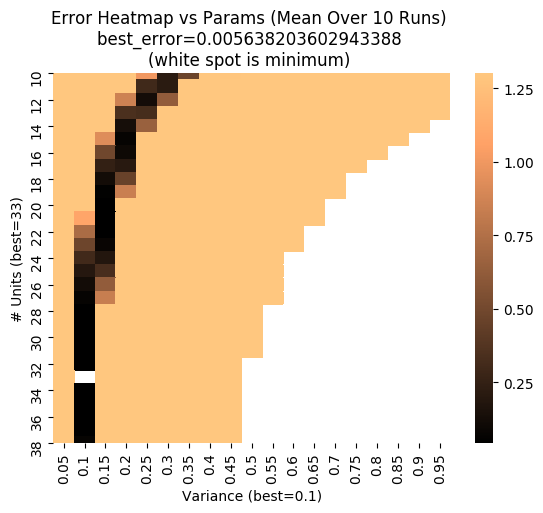
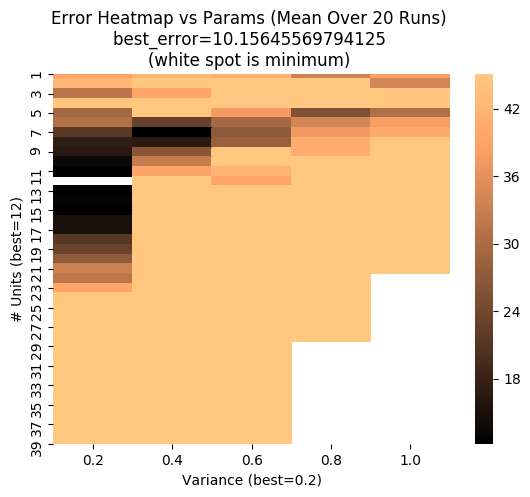
3.2 done

diff --git a/lab2/_3_2.py b/lab2/_3_2.py
@@ -6,23 +6,29 @@ from _3_1 import RBF_NET, X, Y_SIN, Y_SQUARE, X_VAL, Y_SIN_VAL, Y_SQUARE_VAL
 
 
 def getNoisy(input_):
-    return (input_ + 0.01 * np.random.randn(*(input_.shape)))
+    return input_ + np.sqrt(0.1) * np.random.randn(*(input_.shape))
 
 
 def findBestParams(
-    x, y, x_val, y_val, training_method, apply_noise=True, randomize_rbfs=False
+    x,
+    y,
+    x_val,
+    y_val,
+    training_method,
+    apply_noise=True,
+    randomize_rbfs=False,
+    max_epochs=100,
+    hidden_range=np.arange(1, 41),
+    var_range=np.round(np.arange(0.2, 1.2, 0.2), 2),
+    eta=1,
 ):
 
-    num_runs = 20
-    hidden_range = np.arange(10, 41)
-    var_range = np.round(np.arange(0.05, 1.0, 0.05), 2)
+    num_runs = 10
 
     errors = np.ndarray((num_runs, len(hidden_range), len(var_range)))
     num_epochs = np.ndarray((num_runs, len(hidden_range), len(var_range)))
 
     for run in range(num_runs):
-
-        print("Run", run)
 
         y, y_val = getNoisy(np.array([y, y_val])) if apply_noise else (y, y_val)
 
@@ -30,7 +36,7 @@ def findBestParams(
             for j, rbfs_variance in enumerate(var_range):
 
                 cont = False
-                
+
                 while not cont:
                     rbfs_mean = (
                         np.arange(0, 2 * np.pi, 2 * np.pi / hidden_num)
@@ -41,9 +47,13 @@ def findBestParams(
                     n = RBF_NET(rbfs_mean, rbfs_variance)
 
                     try:
-                        eps = n.__getattribute__(training_method)(x, y, callback=None)
+                        eps = n.__getattribute__(training_method)(
+                            x, y, callback=None, max_epochs=max_epochs, eta=eta
+                        )
                         cont = True
-                    except:
+                    except KeyboardInterrupt:
+                        exit()
+                    except np.linalg.LinAlgError:
                         pass
 
                 e = n.error(x_val, y_val)
@@ -54,13 +64,14 @@ def findBestParams(
     errors_mean = np.mean(errors, axis=0)
     errors_std = np.std(errors, axis=0)
 
-    vmax_num = 50
+    vmax_num = int(len(errors_mean.flatten()) * 0.2)
     vmax = np.partition(errors_mean.flatten(), vmax_num)[vmax_num]
 
     row, col = np.unravel_index(np.argmin(errors_mean), errors_mean.shape)
     best_params = hidden_range[row], var_range[col]
     best_error = errors_mean[(row, col)]
     best_error_std = errors_std[(row, col)]
+    best_error_ep = np.mean(num_epochs[:, row, col])
 
     errors_mean[(row, col)] = -np.inf
     d = pd.DataFrame(errors_mean, index=hidden_range, columns=var_range)
@@ -71,34 +82,104 @@ def findBestParams(
         f"Error Heatmap vs Params (Mean Over {num_runs} Runs) \nbest_error={best_error} \n(white spot is minimum) "
     )
 
-    print("Best Error:", best_error)
-    print("Best Parameters:", best_params)
+    # print("Best Error:", best_error)
+    # print("Best Parameters:", best_params)
+    # print("Num Epchs:", best_error_ep)
 
-    return best_error, best_error_std
+    return best_error, best_error_std, best_params, best_error_ep
 
 
 if __name__ == "__main__":
 
     # 3.2.1 3.2.3
-    # findBestParams(X, Y_SIN, X_VAL, Y_SIN_VAL, "train_batch")
+    # dat = findBestParams(X, Y_SIN, X_VAL, Y_SIN_VAL, "train_batch")
     # plt.savefig("pictures/3_2_parameter_map_batch_sin.png", bbox_inches='tight')
     # plt.clf()
-    # findBestParams(X, Y_SQUARE, X_VAL, Y_SQUARE_VAL, "train_batch")
+    # dat = findBestParams(X, Y_SQUARE, X_VAL, Y_SQUARE_VAL, "train_batch")
     # plt.savefig("pictures/3_2_parameter_map_batch_square.png", bbox_inches='tight')
     # plt.clf()
 
-    # findBestParams(X, Y_SIN, "train_delta_batch")
+    # dat = findBestParams(X, Y_SIN, X_VAL, Y_SIN_VAL, "train_delta_batch")
     # plt.savefig("pictures/3_2_parameter_map_delta_sin.png", bbox_inches="tight")
     # plt.clf()
-    # findBestParams(X, Y_SQUARE, "train_delta_batch")
-    # plt.savefig("pictures/3_2_parameter_map_delta_square.png", bbox_inches='tight')
+    # dat = findBestParams(X, Y_SQUARE, X_VAL, Y_SQUARE_VAL, "train_delta_batch")
+    # plt.savefig("pictures/3_2_parameter_map_delta_square.png", bbox_inches="tight")
     # plt.clf()
 
     # 3.2.2 Use best params to find rate of convergence
+    # etas = [0.001,0.005,0.01,0.05,0.1,0.5,1]
+    # errors = []
+    # epss = []
+    # for eta in etas:
+    #     error,_,_,eps = findBestParams(X, Y_SIN, X_VAL, Y_SIN_VAL, "train_delta_batch", hidden_range=[12], var_range=[0.2], eta=eta)
+    #     plt.clf()
+    #     errors.append(error)
+    #     epss.append(eps)
+
+    # # plt.clf()
+    # plt.plot(etas, epss)
+    # plt.plot(etas, epss, "ro")
+    # plt.xscale("log")
+    # plt.ylabel("Epochs (Max=100)")
+    # plt.xlabel("Eta")
+    # for et, ep, err in zip(etas, epss, errors):
+    #     plt.annotate(f'{np.round(err,2)}', xy=(et,ep))
+    # plt.title("Eta vs Epochs (Annotated with Validation Error)")
+    # plt.savefig("pictures/3_2_eta_v_ep.png", bbox_inches="tight")
 
     # 3.2.4 Random positioning of rbf nodes
-    print (findBestParams(X, Y_SIN, X_VAL, Y_SIN_VAL, "train_batch"))
-    plt.show()
-    plt.clf()
-    print (findBestParams(X, Y_SIN, X_VAL, Y_SIN_VAL, "train_batch", randomize_rbfs=True))
+    # dat = findBestParams(X, Y_SIN, X_VAL, Y_SIN_VAL, "train_batch", randomize_rbfs=True)
+    # plt.savefig("pictures/3_2_parameter_map_batch_sin_random.png", bbox_inches='tight')
+    # plt.clf()
+    # dat = findBestParams(X, Y_SIN, X_VAL, Y_SQUARE_VAL, "train_batch", randomize_rbfs=True)
+    # plt.savefig("pictures/3_2_parameter_map_batch_square_random.png", bbox_inches='tight')
+
+    # 3.2.5 Test Against Clean Data
+    # error,_,_,_ = findBestParams(X, Y_SIN, X_VAL, Y_SIN_VAL, "train_batch", apply_noise=False, hidden_range=[9], var_range=[.4])
+    # print (" & ".join(["sin","batch","9",".4", str(error), "\\\\"]))
+    # error,_,_,_ = findBestParams(X, Y_SIN, X_VAL, Y_SQUARE_VAL, "train_batch", apply_noise=False, hidden_range=[25], var_range=[.4])
+    # print (" & ".join(["square","batch","25",".4", str(error), "\\\\"]))
+    # error,_,_,_ = findBestParams(X, Y_SIN, X_VAL, Y_SIN_VAL, "train_delta_batch", apply_noise=False, hidden_range=[12], var_range=[.2])
+    # print (" & ".join(["sin","delta","12",".2", str(error), "\\\\"]))
+    # error,_,_,_ = findBestParams(X, Y_SIN, X_VAL, Y_SQUARE_VAL, "train_delta_batch", apply_noise=False, hidden_range=[15], var_range=[.2])
+    # print (" & ".join(["square","delta","15",".2", str(error), "\\\\"]))
+
+    # 3.2.6 VS MLP
+    from sklearn.neural_network import MLPRegressor
+    from sklearn.metrics import mean_squared_error
+
+    for name, y, y_val, rbfs_units, rbfs_var in [
+        ("sin", Y_SIN, Y_SIN_VAL, 9, 0.4),
+        ("square", Y_SQUARE, Y_SQUARE_VAL, 25, 0.4),
+    ]:
+
+        plt.plot(X_VAL, y_val, "--", label=f"true ({name})")
+
+        # MLP
+
+        N = len(X)
+        # y, y_val = getNoisy(np.array([y, y_val]))
+        n = MLPRegressor(
+            hidden_layer_sizes=(10,),
+            random_state=1,
+            activation="logistic",
+            solver="sgd",
+            learning_rate_init=0.1,
+            batch_size=N,
+            max_iter=1000,
+        )
+        n.fit(X.reshape(-1, 1), y)
+        pred = n.predict(X_VAL.reshape(-1, 1))
+        mse = mean_squared_error(y_val, pred)
+        plt.plot(X_VAL, pred, label=f"MLP (10 Hidden) ({name}) mse={mse}")
+
+        # RBF
+        n = RBF_NET(np.arange(0, 2 * np.pi, 2 * np.pi / rbfs_units), rbfs_var)
+        n.train_batch(X, y)
+        pred = n.predict(X_VAL)
+        mse = mean_squared_error(y_val, pred)
+        plt.plot(X_VAL, pred, label=f"RBF (units={rbfs_units},var={rbfs_var}) ({name}) mse={mse}")
+
+    plt.title("Regressor Performance\n")
+    plt.legend()
     plt.show()

diff --git a/lab2/_3_1.py b/lab2/_3_1.py
@@ -30,7 +30,7 @@ class RBF_NET:
 
         return phi
 
-    def train_batch(self, X, Y, callback=None):
+    def train_batch(self, X, Y, max_epochs=1, eta=1, callback=None):
         """
         Return # epochs to convergence (always 1)
         """
@@ -38,6 +38,7 @@ class RBF_NET:
         phi = self.phi(X)
         self.W = np.linalg.inv(phi.T @ phi) @ phi.T @ Y
         callback() if callback else None
+        return 1
 
     def train_delta_single(self, X_scalar, Y_scalar, eta=1):
         phi_ = self.phi(X_scalar)
@@ -45,19 +46,25 @@ class RBF_NET:
         e = (Y_scalar - pred)[0]
         delW = (eta * e * phi_).flatten()
         self.W += delW
-        return 1
+        return np.max(np.abs(delW))
 
-    def train_delta_batch(self, X, Y, eta=1, callback=None):
+    def train_delta_batch(self, X, Y, max_epochs=100, eta=1, callback=None):
         """
         Return # epochs to convergence (when error < 0.01)
         """
         self.W = np.random.randn(*self.rbfs_mean.shape)
-        for _ in range(1, 101):
+        
+        old_e = 0
+        
+        for _ in range(1, max_epochs):
+            # print (_)
+            maxDelW = 0
             for i in range(len(X)):
-                self.train_delta_single(X[i : i + 1], Y[i : i + 1], eta=eta)
-            callback() if callback else None
-            if self.error(X, Y) < 0.01:
+                maxDelW = max(self.train_delta_single(X[i : i + 1], Y[i : i + 1], eta=eta), maxDelW)
+            new_e = self.error(X,Y)
+            if abs(old_e - new_e) < 10**-5:
                 break
+            old_e = new_e
 
         return _
 
